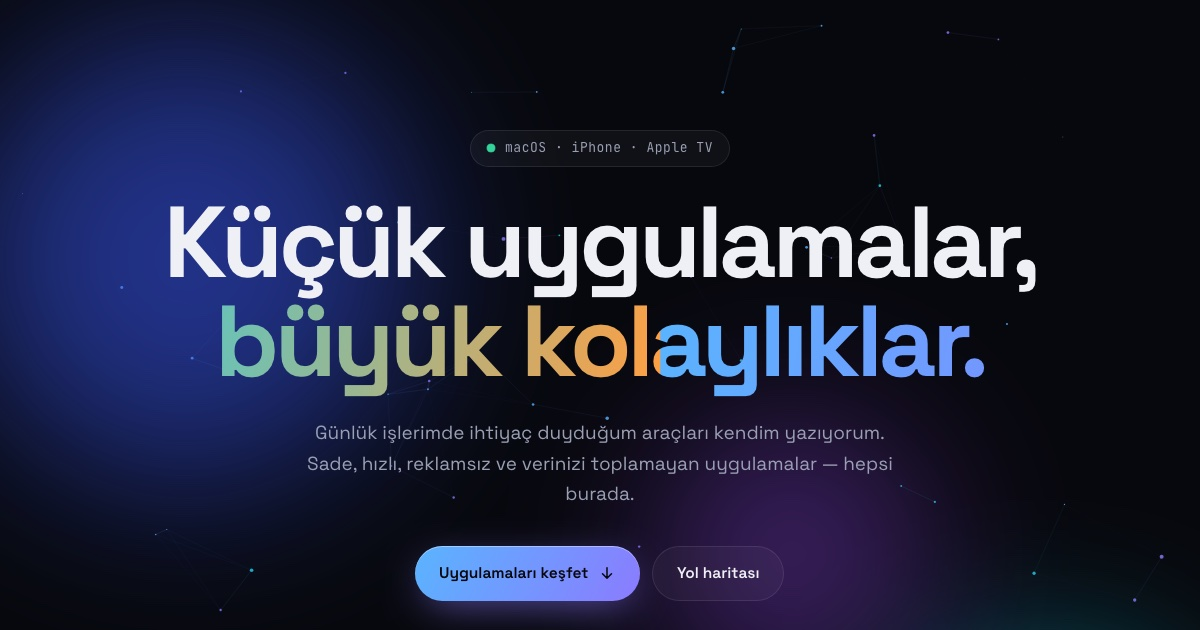
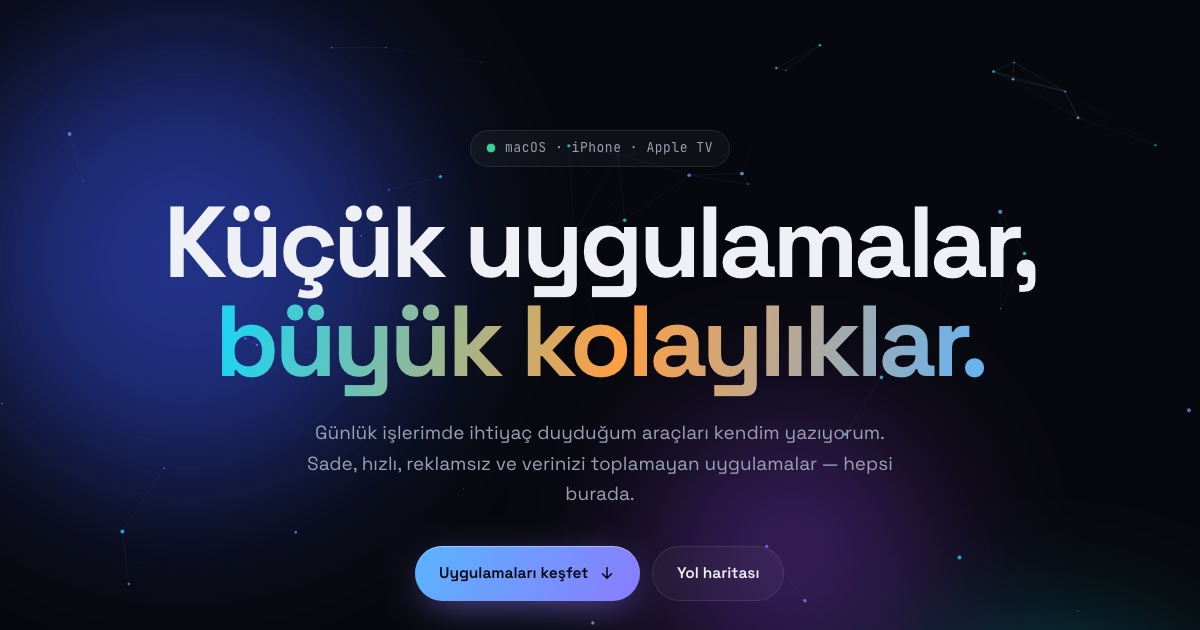
Seamless hero gradient, refresh OG image

Changed region(s): [[0.5242, 0.4825, 0.8325, 0.6333], [0.185, 0.4825, 0.37, 0.6333]]

diff --git a/css/style.css b/css/style.css
@@ -104,12 +104,12 @@ a { color: inherit; text-decoration: none; }
 }
 .hero-title .line { display: block; }
 .gradient-text {
-  background: linear-gradient(100deg, var(--c1), var(--c2) 35%, var(--c3) 65%, var(--c4));
-  background-size: 250% 100%;
+  background: linear-gradient(100deg, var(--c1), var(--c2) 25%, var(--c3) 50%, var(--c4) 75%, var(--c1));
+  background-size: 200% 100%;
   -webkit-background-clip: text; background-clip: text; color: transparent;
   animation: shimmer 8s linear infinite;
 }
-@keyframes shimmer { to { background-position: 250% 0; } }
+@keyframes shimmer { to { background-position: -200% 0; } }
 .hero-sub { max-width: 620px; margin: 28px auto 0; color: var(--muted); font-size: clamp(16px, 2vw, 19px); }
 .hero-actions { display: flex; flex-wrap: wrap; gap: 12px; justify-content: center; margin-top: 36px; }
 
